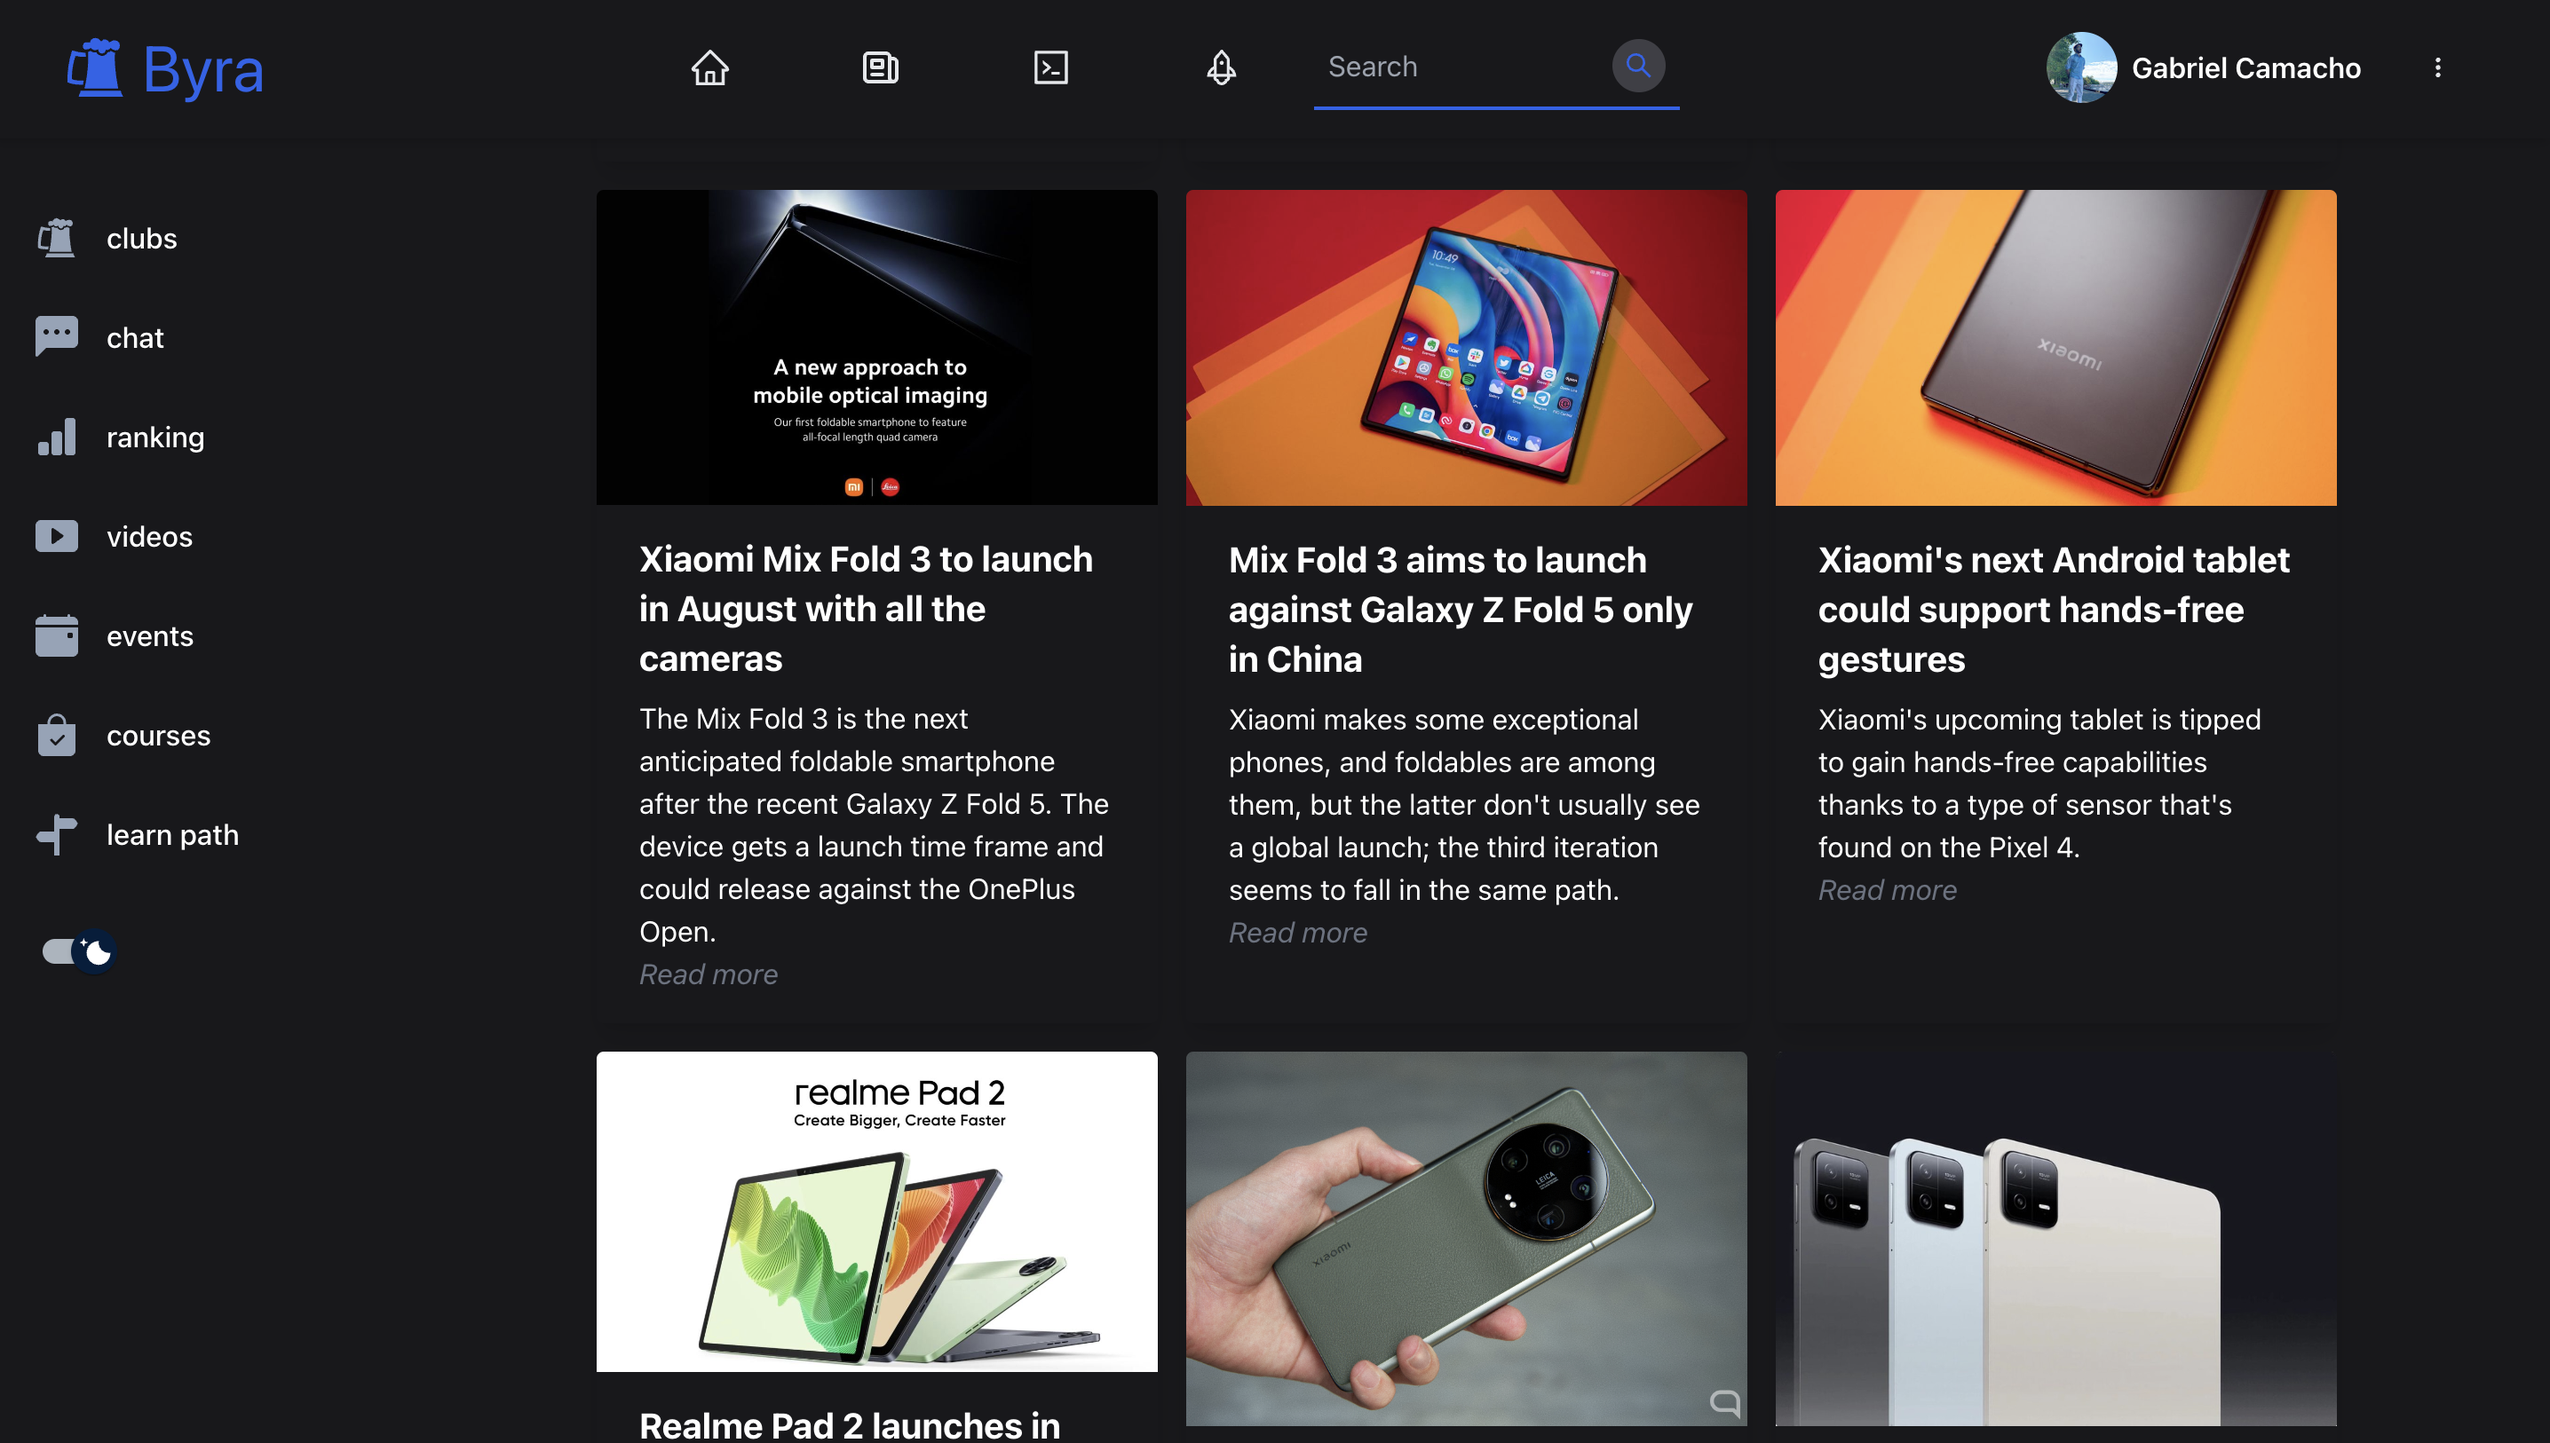
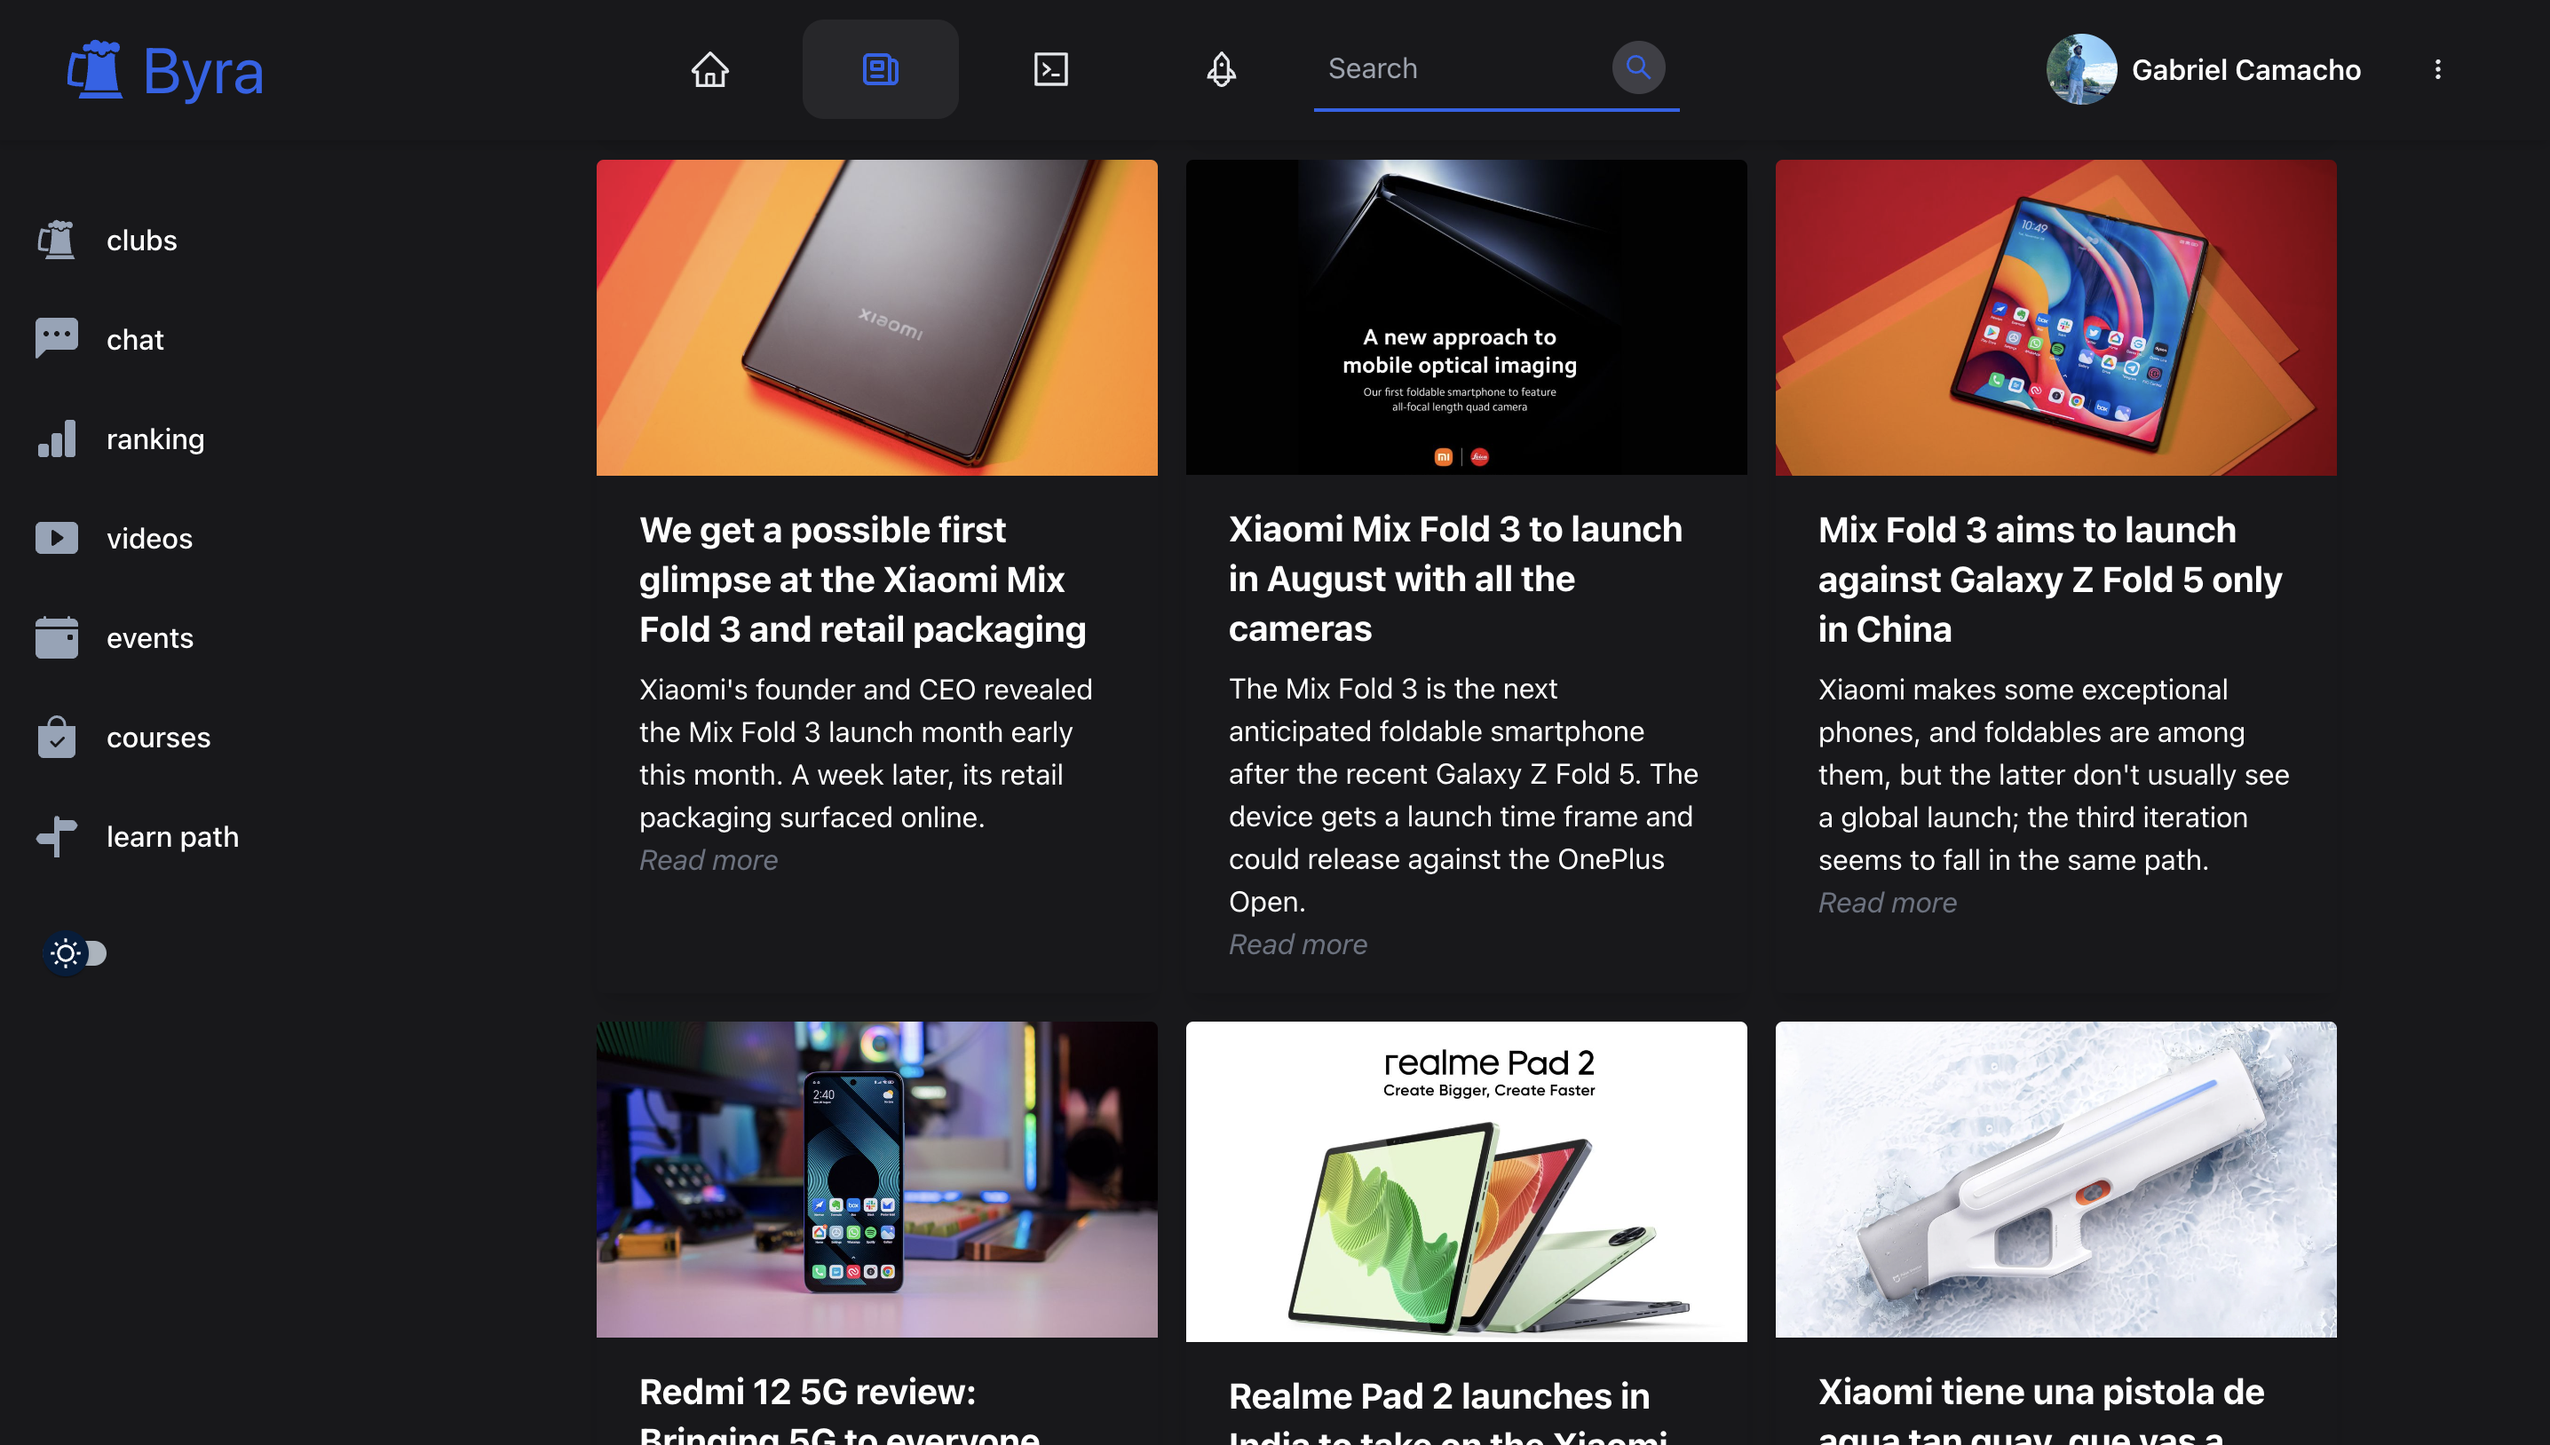
images placeholder light theme added

diff --git a/src/pages/projects/smart-sparrow/SmartSparrow.js b/src/pages/projects/smart-sparrow/SmartSparrow.js
@@ -64,9 +64,17 @@ import {
 } from 'layouts/Project';
 
 import clubsFeedDark from 'assets/byra/clubsfeed-dark.jpg';
+import clubsFeedLight from 'assets/byra/clubsfeed-light.jpg';
+
 import feedDark from 'assets/byra/feed-dark.jpg';
+import feedLight from 'assets/byra/feed-light.jpg';
+
 import techsDark from 'assets/byra/techs-dark.jpg';
+import techsLight from 'assets/byra/techs-light.jpg';
+
 import newsDark from 'assets/byra/news-dark.jpg';
+import newsLight from 'assets/byra/news-light.jpg';
+
 import backgroundTech from 'assets/byra/testebg.jpg';
 import bgtop from 'assets/byra/bgtop.jpg';
 import dynamic from 'next/dynamic';
@@ -121,12 +129,12 @@ export const SmartSparrow = () => {
               srcSet={
                 isDark
                   ? [clubsFeedDark, clubsFeedDark]
-                  : [imageSprLessonBuilderLight, imageSprLessonBuilderLightLarge]
+                  : [clubsFeedLight, clubsFeedLight]
               }
               placeholder={
                 isDark
                   ? clubsFeedDark
-                  : imageSprLessonBuilderLightPlaceholder
+                  : clubsFeedLight
               }
               sizes={`(max-width: ${media.mobile}px) 100vw, (max-width: ${media.tablet}px) 800px, 1000px`}
               alt="The aero lesson builder app dragging an audio component into a screen about plant cells."
@@ -137,7 +145,7 @@ export const SmartSparrow = () => {
           <ProjectTextRow>
             <ProjectSectionHeading>The problem</ProjectSectionHeading>
             <ProjectSectionText>
-              In 2021, I was struggling to connect with more experienced developers that could help guide my journey in the infinite universe of computing. I was not sure the paths to take and which technologies to learn. So I thought of a platform where you can have open groups of developers, structured learning paths by technologies and job roles, with videos and posts that anyone can share, post courses, create events, forums, and get tunned with tech news
+              In 2021, I was struggling to connect with more experienced developers that could help guide my journey in the infinite universe of computing. I was not sure the paths to take and which technologies to learn. So I thought of a platform where you can have open groups of developers, structured learning paths by technologies and job roles, with videos and posts that anyone can share, post courses, create events, forums, and get tunned with tech news. So I started coding it and called 2 friends to help me in the journey
             </ProjectSectionText>
           </ProjectTextRow>
         </ProjectSection>
@@ -148,7 +156,7 @@ export const SmartSparrow = () => {
               srcSet={
                 isDark
                   ? [feedDark, feedDark]
-                  : [imageSprComponentsLight, imageSprComponentsLightLarge]
+                  : [feedLight, feedLight]
               }
               placeholder={
                 isDark
@@ -234,12 +242,12 @@ export const SmartSparrow = () => {
               srcSet={
                 isDark
                   ? [techsDark, techsDark]
-                  : [imageSprComponentsLight, imageSprComponentsLightLarge]
+                  : [techsLight, techsLight]
               }
               placeholder={
                 isDark
                   ? techsDark
-                  : imageSprComponentsLightPlaceholder
+                  : techsLight
               }
               alt={`A set of ${themeId} themed components for the aero design system`}
               sizes="100vw"
@@ -261,12 +269,12 @@ export const SmartSparrow = () => {
               srcSet={
                 isDark
                   ? [newsDark, newsDark]
-                  : [imageSprStoryboarderLight, imageSprStoryboarderLightLarge]
+                  : [newsLight, newsLight]
               }
               placeholder={
                 isDark
-                  ? imageSprStoryboarderDarkPlaceholder
-                  : imageSprStoryboarderLightPlaceholder
+                  ? newsDark
+                  : newsLight
               }
               alt="A drag and drop storyboard style editor for creating an adaptive lesson."
               sizes={`(max-width: ${media.mobile}px) 100vw, 80vw`}

diff --git a/src/layouts/Home/Home.js b/src/layouts/Home/Home.js
@@ -104,7 +104,7 @@ export const Home = () => {
           textures: [
             {
               srcSet: [byra, byra],
-              placeholder: sprTexturePlaceholder,
+              placeholder: byra,
             },
           ],
         }}
@@ -125,7 +125,7 @@ export const Home = () => {
           textures: [
             {
               srcSet: [loginPage, loginPage],
-              placeholder: gamestackTexturePlaceholder,
+              placeholder: loginPage,
             },
             {
               srcSet: [gamestackTexture2Large, gamestackTexture2Large],
@@ -149,7 +149,7 @@ export const Home = () => {
           textures: [
             {
               srcSet: [dashboard, dashboard],
-              placeholder: sprTexturePlaceholder,
+              placeholder: dashboard,
             },
           ],
         }}
@@ -169,7 +169,7 @@ export const Home = () => {
           textures: [
             {
               srcSet: [kript, kript],
-              placeholder: sprTexturePlaceholder,
+              placeholder: kript,
             },
           ],
         }}
